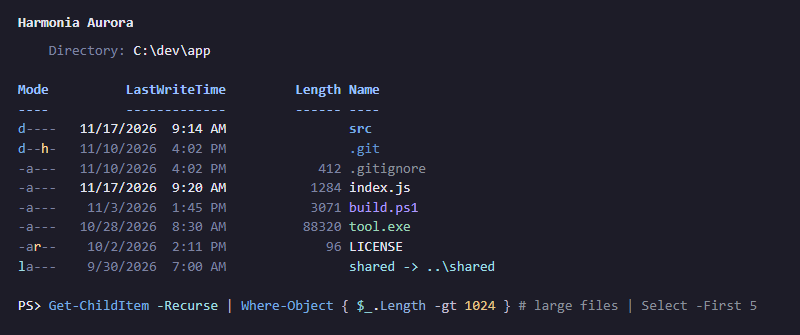
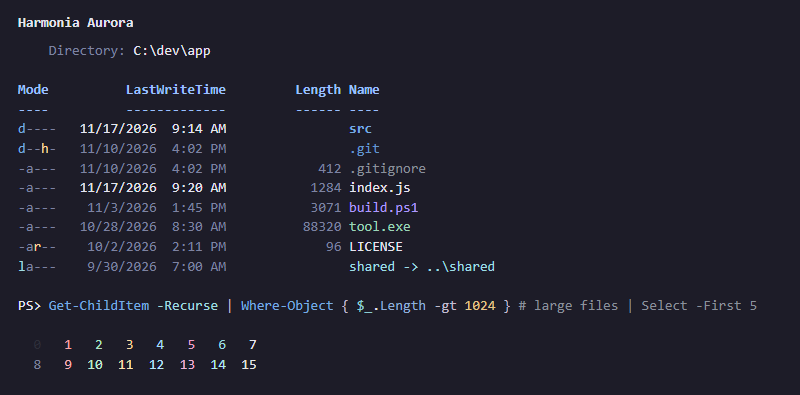
Show the 16 ANSI colors in the preview and screenshots
The README's palette check prints colors 0-15 and asks to compare them with
the variant's screenshot, but the screenshots only showed PowerShell output.
The preview now ends with the same two rows, colored from terminalPalette(),
and the screenshot window is taller to fit them.

diff --git a/docs/preview.html b/docs/preview.html
@@ -23,7 +23,10 @@ body.single section{margin:0;border-radius:0;min-height:100vh;box-sizing:border-
 <span style="color:#7E83A1">-</span><span style="color:#7E83A1">a</span><span style="color:#F9D79F">r</span><span style="color:#7E83A1">-</span><span style="color:#7E83A1">-</span><span style="color:#7E83A1"> </span><span style="color:#7E83A1"> </span> <span style="color:#7E83A1"> 10/2/2026  2:11 PM</span> <span style="color:#7E83A1">            96</span> <span style="color:#E6E6F0">LICENSE</span>
 <span style="color:#9FDDE3">l</span><span style="color:#7E83A1">a</span><span style="color:#7E83A1">-</span><span style="color:#7E83A1">-</span><span style="color:#7E83A1">-</span><span style="color:#7E83A1"> </span><span style="color:#7E83A1"> </span> <span style="color:#7E83A1"> 9/30/2026  7:00 AM</span> <span style="color:#7E83A1">              </span> <span style="color:#9FDDE3">shared -&gt; ..\shared</span>
 
-<span style="color:#E6E6F0">PS&gt; </span><span style="color:#77ACE2">Get-ChildItem</span> <span style="color:#A0DCE0">-Recurse</span> <span style="color:#C0BDD0">|</span> <span style="color:#77ACE2">Where-Object</span> <span style="color:#C0BDD0">{</span> <span style="color:#8CCCD2">$_</span><span style="color:#E6E6F0">.</span><span style="color:#8FAED8">Length</span> <span style="color:#C0BDD0">-gt</span> <span style="color:#E6C58A">1024</span> <span style="color:#C0BDD0">}</span> <span style="color:#8A909B"># large files</span><span style="color:#8A909B"> | Select -First 5</span></pre>
+<span style="color:#E6E6F0">PS&gt; </span><span style="color:#77ACE2">Get-ChildItem</span> <span style="color:#A0DCE0">-Recurse</span> <span style="color:#C0BDD0">|</span> <span style="color:#77ACE2">Where-Object</span> <span style="color:#C0BDD0">{</span> <span style="color:#8CCCD2">$_</span><span style="color:#E6E6F0">.</span><span style="color:#8FAED8">Length</span> <span style="color:#C0BDD0">-gt</span> <span style="color:#E6C58A">1024</span> <span style="color:#C0BDD0">}</span> <span style="color:#8A909B"># large files</span><span style="color:#8A909B"> | Select -First 5</span>
+
+<span style="color:#2E2F3A">  0</span> <span style="color:#F7A3A8">  1</span> <span style="color:#B0E3C5">  2</span> <span style="color:#F9D79F">  3</span> <span style="color:#A5D8F7">  4</span> <span style="color:#E8A2C8">  5</span> <span style="color:#9FDDE3">  6</span> <span style="color:#E8E8F0">  7</span>
+<span style="color:#7F839E">  8</span> <span style="color:#F5B2B7">  9</span> <span style="color:#C1EED3"> 10</span> <span style="color:#FDE4B2"> 11</span> <span style="color:#B8E3FB"> 12</span> <span style="color:#F0B4D6"> 13</span> <span style="color:#B4E9ED"> 14</span> <span style="color:#E7E6E6"> 15</span></pre>
 </section>
 <section id="harmonia-dark" style="background:#1A1B26;color:#D0D0E0">
 <h2>Harmonia Dark</h2>
@@ -40,7 +43,10 @@ body.single section{margin:0;border-radius:0;min-height:100vh;box-sizing:border-
 <span style="color:#7D81A2">-</span><span style="color:#7D81A2">a</span><span style="color:#E0A96D">r</span><span style="color:#7D81A2">-</span><span style="color:#7D81A2">-</span><span style="color:#7D81A2"> </span><span style="color:#7D81A2"> </span> <span style="color:#7D81A2"> 10/2/2026  2:11 PM</span> <span style="color:#7D81A2">            96</span> <span style="color:#D0D0E0">LICENSE</span>
 <span style="color:#88C6C3">l</span><span style="color:#7D81A2">a</span><span style="color:#7D81A2">-</span><span style="color:#7D81A2">-</span><span style="color:#7D81A2">-</span><span style="color:#7D81A2"> </span><span style="color:#7D81A2"> </span> <span style="color:#7D81A2"> 9/30/2026  7:00 AM</span> <span style="color:#7D81A2">              </span> <span style="color:#88C6C3">shared -&gt; ..\shared</span>
 
-<span style="color:#D0D0E0">PS&gt; </span><span style="color:#7FA9DC">Get-ChildItem</span> <span style="color:#94E2D5">-Recurse</span> <span style="color:#A8A8B8">|</span> <span style="color:#7FA9DC">Where-Object</span> <span style="color:#A8A8B8">{</span> <span style="color:#88C6C3">$_</span><span style="color:#D0D0E0">.</span><span style="color:#C8D0E0">Length</span> <span style="color:#A8A8B8">-gt</span> <span style="color:#D39D62">1024</span> <span style="color:#A8A8B8">}</span> <span style="color:#8A909B"># large files</span><span style="color:#8A909B"> | Select -First 5</span></pre>
+<span style="color:#D0D0E0">PS&gt; </span><span style="color:#7FA9DC">Get-ChildItem</span> <span style="color:#94E2D5">-Recurse</span> <span style="color:#A8A8B8">|</span> <span style="color:#7FA9DC">Where-Object</span> <span style="color:#A8A8B8">{</span> <span style="color:#88C6C3">$_</span><span style="color:#D0D0E0">.</span><span style="color:#C8D0E0">Length</span> <span style="color:#A8A8B8">-gt</span> <span style="color:#D39D62">1024</span> <span style="color:#A8A8B8">}</span> <span style="color:#8A909B"># large files</span><span style="color:#8A909B"> | Select -First 5</span>
+
+<span style="color:#2E2F3A">  0</span> <span style="color:#EC7279">  1</span> <span style="color:#A3D9A5">  2</span> <span style="color:#E0A96D">  3</span> <span style="color:#6EBDDB">  4</span> <span style="color:#C574DD">  5</span> <span style="color:#88C6C3">  6</span> <span style="color:#D0D0E0">  7</span>
+<span style="color:#7C829E">  8</span> <span style="color:#EC8A8F">  9</span> <span style="color:#B0DCAE"> 10</span> <span style="color:#F0C685"> 11</span> <span style="color:#8BD4E9"> 12</span> <span style="color:#D995ED"> 13</span> <span style="color:#A1DBDE"> 14</span> <span style="color:#D1D1D1"> 15</span></pre>
 </section>
 <section id="harmonia-dark-high-contrast" style="background:#0B0C12;color:#ECECF4">
 <h2>Harmonia Dark High Contrast</h2>
@@ -57,7 +63,10 @@ body.single section{margin:0;border-radius:0;min-height:100vh;box-sizing:border-
 <span style="color:#737897">-</span><span style="color:#737897">a</span><span style="color:#FFC979">r</span><span style="color:#737897">-</span><span style="color:#737897">-</span><span style="color:#737897"> </span><span style="color:#737897"> </span> <span style="color:#737897"> 10/2/2026  2:11 PM</span> <span style="color:#737897">            96</span> <span style="color:#ECECF4">LICENSE</span>
 <span style="color:#79D4D2">l</span><span style="color:#737897">a</span><span style="color:#737897">-</span><span style="color:#737897">-</span><span style="color:#737897">-</span><span style="color:#737897"> </span><span style="color:#737897"> </span> <span style="color:#737897"> 9/30/2026  7:00 AM</span> <span style="color:#737897">              </span> <span style="color:#79D4D2">shared -&gt; ..\shared</span>
 
-<span style="color:#ECECF4">PS&gt; </span><span style="color:#6FA3D9">Get-ChildItem</span> <span style="color:#96DDD5">-Recurse</span> <span style="color:#D0CEE0">|</span> <span style="color:#6FA3D9">Where-Object</span> <span style="color:#D0CEE0">{</span> <span style="color:#79D4D2">$_</span><span style="color:#ECECF4">.</span><span style="color:#E6EAF6">Length</span> <span style="color:#D0CEE0">-gt</span> <span style="color:#E6BA78">1024</span> <span style="color:#D0CEE0">}</span> <span style="color:#828895"># large files</span><span style="color:#828895"> | Select -First 5</span></pre>
+<span style="color:#ECECF4">PS&gt; </span><span style="color:#6FA3D9">Get-ChildItem</span> <span style="color:#96DDD5">-Recurse</span> <span style="color:#D0CEE0">|</span> <span style="color:#6FA3D9">Where-Object</span> <span style="color:#D0CEE0">{</span> <span style="color:#79D4D2">$_</span><span style="color:#ECECF4">.</span><span style="color:#E6EAF6">Length</span> <span style="color:#D0CEE0">-gt</span> <span style="color:#E6BA78">1024</span> <span style="color:#D0CEE0">}</span> <span style="color:#828895"># large files</span><span style="color:#828895"> | Select -First 5</span>
+
+<span style="color:#252735">  0</span> <span style="color:#FF7E8A">  1</span> <span style="color:#98E8B0">  2</span> <span style="color:#F0BE79">  3</span> <span style="color:#74C0FF">  4</span> <span style="color:#D08CFF">  5</span> <span style="color:#79D4D2">  6</span> <span style="color:#ECECF4">  7</span>
+<span style="color:#7C82A3">  8</span> <span style="color:#FFA1AA">  9</span> <span style="color:#C0F1C0"> 10</span> <span style="color:#FFD793"> 11</span> <span style="color:#A8D8FF"> 12</span> <span style="color:#E7B7FF"> 13</span> <span style="color:#B6F2F5"> 14</span> <span style="color:#EDECEC"> 15</span></pre>
 </section>
 <section id="harmonia-daybreak" style="background:#ECEEF1;color:#2D2D2D">
 <h2>Harmonia Daybreak</h2>
@@ -74,7 +83,10 @@ body.single section{margin:0;border-radius:0;min-height:100vh;box-sizing:border-
 <span style="color:#686C76">-</span><span style="color:#686C76">a</span><span style="color:#744400">r</span><span style="color:#686C76">-</span><span style="color:#686C76">-</span><span style="color:#686C76"> </span><span style="color:#686C76"> </span> <span style="color:#686C76"> 10/2/2026  2:11 PM</span> <span style="color:#686C76">            96</span> <span style="color:#2D2D2D">LICENSE</span>
 <span style="color:#005289">l</span><span style="color:#686C76">a</span><span style="color:#686C76">-</span><span style="color:#686C76">-</span><span style="color:#686C76">-</span><span style="color:#686C76"> </span><span style="color:#686C76"> </span> <span style="color:#686C76"> 9/30/2026  7:00 AM</span> <span style="color:#686C76">              </span> <span style="color:#005289">shared -&gt; ..\shared</span>
 
-<span style="color:#2D2D2D">PS&gt; </span><span style="color:#1A4E95">Get-ChildItem</span> <span style="color:#135762">-Recurse</span> <span style="color:#4C4F56">|</span> <span style="color:#1A4E95">Where-Object</span> <span style="color:#4C4F56">{</span> <span style="color:#085958">$_</span><span style="color:#2D2D2D">.</span><span style="color:#3B3F48">Length</span> <span style="color:#4C4F56">-gt</span> <span style="color:#6F4707">1024</span> <span style="color:#4C4F56">}</span> <span style="color:#666B74"># large files</span><span style="color:#666B74"> | Select -First 5</span></pre>
+<span style="color:#2D2D2D">PS&gt; </span><span style="color:#1A4E95">Get-ChildItem</span> <span style="color:#135762">-Recurse</span> <span style="color:#4C4F56">|</span> <span style="color:#1A4E95">Where-Object</span> <span style="color:#4C4F56">{</span> <span style="color:#085958">$_</span><span style="color:#2D2D2D">.</span><span style="color:#3B3F48">Length</span> <span style="color:#4C4F56">-gt</span> <span style="color:#6F4707">1024</span> <span style="color:#4C4F56">}</span> <span style="color:#666B74"># large files</span><span style="color:#666B74"> | Select -First 5</span>
+
+<span style="color:#9FA6B2">  0</span> <span style="color:#C8323B">  1</span> <span style="color:#3C7944">  2</span> <span style="color:#8E642C">  3</span> <span style="color:#386CB5">  4</span> <span style="color:#9B43C6">  5</span> <span style="color:#2A70A9">  6</span> <span style="color:#3A3A3A">  7</span>
+<span style="color:#666D75">  8</span> <span style="color:#A52930">  9</span> <span style="color:#2A6439"> 10</span> <span style="color:#785030"> 11</span> <span style="color:#2F5B8A"> 12</span> <span style="color:#8133A9"> 13</span> <span style="color:#355991"> 14</span> <span style="color:#2D2D2D"> 15</span></pre>
 </section>
 <section id="harmonia-light" style="background:#ECEEF1;color:#2D2D2D">
 <h2>Harmonia Light</h2>
@@ -91,7 +103,10 @@ body.single section{margin:0;border-radius:0;min-height:100vh;box-sizing:border-
 <span style="color:#686C76">-</span><span style="color:#686C76">a</span><span style="color:#744400">r</span><span style="color:#686C76">-</span><span style="color:#686C76">-</span><span style="color:#686C76"> </span><span style="color:#686C76"> </span> <span style="color:#686C76"> 10/2/2026  2:11 PM</span> <span style="color:#686C76">            96</span> <span style="color:#2D2D2D">LICENSE</span>
 <span style="color:#085958">l</span><span style="color:#686C76">a</span><span style="color:#686C76">-</span><span style="color:#686C76">-</span><span style="color:#686C76">-</span><span style="color:#686C76"> </span><span style="color:#686C76"> </span> <span style="color:#686C76"> 9/30/2026  7:00 AM</span> <span style="color:#686C76">              </span> <span style="color:#085958">shared -&gt; ..\shared</span>
 
-<span style="color:#2D2D2D">PS&gt; </span><span style="color:#2B4D92">Get-ChildItem</span> <span style="color:#135762">-Recurse</span> <span style="color:#4C4F56">|</span> <span style="color:#2B4D92">Where-Object</span> <span style="color:#4C4F56">{</span> <span style="color:#085958">$_</span><span style="color:#2D2D2D">.</span><span style="color:#3B3F48">Length</span> <span style="color:#4C4F56">-gt</span> <span style="color:#6F4707">1024</span> <span style="color:#4C4F56">}</span> <span style="color:#666B74"># large files</span><span style="color:#666B74"> | Select -First 5</span></pre>
+<span style="color:#2D2D2D">PS&gt; </span><span style="color:#2B4D92">Get-ChildItem</span> <span style="color:#135762">-Recurse</span> <span style="color:#4C4F56">|</span> <span style="color:#2B4D92">Where-Object</span> <span style="color:#4C4F56">{</span> <span style="color:#085958">$_</span><span style="color:#2D2D2D">.</span><span style="color:#3B3F48">Length</span> <span style="color:#4C4F56">-gt</span> <span style="color:#6F4707">1024</span> <span style="color:#4C4F56">}</span> <span style="color:#666B74"># large files</span><span style="color:#666B74"> | Select -First 5</span>
+
+<span style="color:#9FA6B2">  0</span> <span style="color:#C8323B">  1</span> <span style="color:#3C7944">  2</span> <span style="color:#8E642C">  3</span> <span style="color:#2A70A9">  4</span> <span style="color:#9B43C6">  5</span> <span style="color:#307675">  6</span> <span style="color:#2D2D2D">  7</span>
+<span style="color:#666D75">  8</span> <span style="color:#A52930">  9</span> <span style="color:#2A6439"> 10</span> <span style="color:#785030"> 11</span> <span style="color:#355991"> 12</span> <span style="color:#8133A9"> 13</span> <span style="color:#2C6069"> 14</span> <span style="color:#3A3A3A"> 15</span></pre>
 </section>
 <section id="harmonia-moonlit" style="background:#1A1B26;color:#D0D0E0">
 <h2>Harmonia Moonlit</h2>
@@ -108,7 +123,10 @@ body.single section{margin:0;border-radius:0;min-height:100vh;box-sizing:border-
 <span style="color:#7D81A2">-</span><span style="color:#7D81A2">a</span><span style="color:#F9D79F">r</span><span style="color:#7D81A2">-</span><span style="color:#7D81A2">-</span><span style="color:#7D81A2"> </span><span style="color:#7D81A2"> </span> <span style="color:#7D81A2"> 10/2/2026  2:11 PM</span> <span style="color:#7D81A2">            96</span> <span style="color:#D0D0E0">LICENSE</span>
 <span style="color:#6EBBDD">l</span><span style="color:#7D81A2">a</span><span style="color:#7D81A2">-</span><span style="color:#7D81A2">-</span><span style="color:#7D81A2">-</span><span style="color:#7D81A2"> </span><span style="color:#7D81A2"> </span> <span style="color:#7D81A2"> 9/30/2026  7:00 AM</span> <span style="color:#7D81A2">              </span> <span style="color:#6EBBDD">shared -&gt; ..\shared</span>
 
-<span style="color:#D0D0E0">PS&gt; </span><span style="color:#75AAE3">Get-ChildItem</span> <span style="color:#94E2D5">-Recurse</span> <span style="color:#A8A8B8">|</span> <span style="color:#75AAE3">Where-Object</span> <span style="color:#A8A8B8">{</span> <span style="color:#B0B8D0">$_</span><span style="color:#D0D0E0">.</span><span style="color:#C8D0E0">Length</span> <span style="color:#A8A8B8">-gt</span> <span style="color:#E0A96D">1024</span> <span style="color:#A8A8B8">}</span> <span style="color:#8A909B"># large files</span><span style="color:#8A909B"> | Select -First 5</span></pre>
+<span style="color:#D0D0E0">PS&gt; </span><span style="color:#75AAE3">Get-ChildItem</span> <span style="color:#94E2D5">-Recurse</span> <span style="color:#A8A8B8">|</span> <span style="color:#75AAE3">Where-Object</span> <span style="color:#A8A8B8">{</span> <span style="color:#B0B8D0">$_</span><span style="color:#D0D0E0">.</span><span style="color:#C8D0E0">Length</span> <span style="color:#A8A8B8">-gt</span> <span style="color:#E0A96D">1024</span> <span style="color:#A8A8B8">}</span> <span style="color:#8A909B"># large files</span><span style="color:#8A909B"> | Select -First 5</span>
+
+<span style="color:#2E2F3A">  0</span> <span style="color:#EC7279">  1</span> <span style="color:#A3D9A5">  2</span> <span style="color:#E0A96D">  3</span> <span style="color:#5B8FC7">  4</span> <span style="color:#C574DD">  5</span> <span style="color:#6EBBDD">  6</span> <span style="color:#D0D0E0">  7</span>
+<span style="color:#7C829E">  8</span> <span style="color:#EC8A8F">  9</span> <span style="color:#B0DCAE"> 10</span> <span style="color:#F0C685"> 11</span> <span style="color:#6F8FCC"> 12</span> <span style="color:#D995ED"> 13</span> <span style="color:#8BD4E9"> 14</span> <span style="color:#D1D1D1"> 15</span></pre>
 </section>
 <section id="harmonia-noir" style="background:#14121A;color:#D0D0E0">
 <h2>Harmonia Noir</h2>
@@ -125,7 +143,10 @@ body.single section{margin:0;border-radius:0;min-height:100vh;box-sizing:border-
 <span style="color:#777B9B">-</span><span style="color:#777B9B">a</span><span style="color:#E0A96D">r</span><span style="color:#777B9B">-</span><span style="color:#777B9B">-</span><span style="color:#777B9B"> </span><span style="color:#777B9B"> </span> <span style="color:#777B9B"> 10/2/2026  2:11 PM</span> <span style="color:#777B9B">            96</span> <span style="color:#D0D0E0">LICENSE</span>
 <span style="color:#88C6C3">l</span><span style="color:#777B9B">a</span><span style="color:#777B9B">-</span><span style="color:#777B9B">-</span><span style="color:#777B9B">-</span><span style="color:#777B9B"> </span><span style="color:#777B9B"> </span> <span style="color:#777B9B"> 9/30/2026  7:00 AM</span> <span style="color:#777B9B">              </span> <span style="color:#88C6C3">shared -&gt; ..\shared</span>
 
-<span style="color:#D0D0E0">PS&gt; </span><span style="color:#A0AEE8">Get-ChildItem</span> <span style="color:#94E2D5">-Recurse</span> <span style="color:#BFBDCC">|</span> <span style="color:#A0AEE8">Where-Object</span> <span style="color:#BFBDCC">{</span> <span style="color:#88C6C3">$_</span><span style="color:#D0D0E0">.</span><span style="color:#C8CEDA">Length</span> <span style="color:#BFBDCC">-gt</span> <span style="color:#D39D62">1024</span> <span style="color:#BFBDCC">}</span> <span style="color:#868C97"># large files</span><span style="color:#868C97"> | Select -First 5</span></pre>
+<span style="color:#D0D0E0">PS&gt; </span><span style="color:#A0AEE8">Get-ChildItem</span> <span style="color:#94E2D5">-Recurse</span> <span style="color:#BFBDCC">|</span> <span style="color:#A0AEE8">Where-Object</span> <span style="color:#BFBDCC">{</span> <span style="color:#88C6C3">$_</span><span style="color:#D0D0E0">.</span><span style="color:#C8CEDA">Length</span> <span style="color:#BFBDCC">-gt</span> <span style="color:#D39D62">1024</span> <span style="color:#BFBDCC">}</span> <span style="color:#868C97"># large files</span><span style="color:#868C97"> | Select -First 5</span>
+
+<span style="color:#2A2B36">  0</span> <span style="color:#EC7279">  1</span> <span style="color:#9FD6D1">  2</span> <span style="color:#D4AA76">  3</span> <span style="color:#7EA8E6">  4</span> <span style="color:#BBA0F5">  5</span> <span style="color:#88C6C3">  6</span> <span style="color:#D0D0E0">  7</span>
+<span style="color:#767C98">  8</span> <span style="color:#EC8A8F">  9</span> <span style="color:#A4DBD7"> 10</span> <span style="color:#E3BB86"> 11</span> <span style="color:#9CC7FF"> 12</span> <span style="color:#CAA7F2"> 13</span> <span style="color:#A1DBDE"> 14</span> <span style="color:#D1D1D1"> 15</span></pre>
 </section>
 <section id="harmonia-oled-true-black" style="background:#000000;color:#E2E2E8">
 <h2>Harmonia OLED True Black</h2>
@@ -142,7 +163,10 @@ body.single section{margin:0;border-radius:0;min-height:100vh;box-sizing:border-
 <span style="color:#6E738F">-</span><span style="color:#6E738F">a</span><span style="color:#E1B37A">r</span><span style="color:#6E738F">-</span><span style="color:#6E738F">-</span><span style="color:#6E738F"> </span><span style="color:#6E738F"> </span> <span style="color:#6E738F"> 10/2/2026  2:11 PM</span> <span style="color:#6E738F">            96</span> <span style="color:#E2E2E8">LICENSE</span>
 <span style="color:#96D7D4">l</span><span style="color:#6E738F">a</span><span style="color:#6E738F">-</span><span style="color:#6E738F">-</span><span style="color:#6E738F">-</span><span style="color:#6E738F"> </span><span style="color:#6E738F"> </span> <span style="color:#6E738F"> 9/30/2026  7:00 AM</span> <span style="color:#6E738F">              </span> <span style="color:#96D7D4">shared -&gt; ..\shared</span>
 
-<span style="color:#E2E2E8">PS&gt; </span><span style="color:#5B9BD5">Get-ChildItem</span> <span style="color:#A7DEAE">-Recurse</span> <span style="color:#BBB9C8">|</span> <span style="color:#5B9BD5">Where-Object</span> <span style="color:#BBB9C8">{</span> <span style="color:#88C5C2">$_</span><span style="color:#E2E2E8">.</span><span style="color:#C8C8D2">Length</span> <span style="color:#BBB9C8">-gt</span> <span style="color:#E1B37A">1024</span> <span style="color:#BBB9C8">}</span> <span style="color:#7D828D"># large files</span><span style="color:#7D828D"> | Select -First 5</span></pre>
+<span style="color:#E2E2E8">PS&gt; </span><span style="color:#5B9BD5">Get-ChildItem</span> <span style="color:#A7DEAE">-Recurse</span> <span style="color:#BBB9C8">|</span> <span style="color:#5B9BD5">Where-Object</span> <span style="color:#BBB9C8">{</span> <span style="color:#88C5C2">$_</span><span style="color:#E2E2E8">.</span><span style="color:#C8C8D2">Length</span> <span style="color:#BBB9C8">-gt</span> <span style="color:#E1B37A">1024</span> <span style="color:#BBB9C8">}</span> <span style="color:#7D828D"># large files</span><span style="color:#7D828D"> | Select -First 5</span>
+
+<span style="color:#111218">  0</span> <span style="color:#E8848A">  1</span> <span style="color:#A7DEAE">  2</span> <span style="color:#E1B37A">  3</span> <span style="color:#7AA2F7">  4</span> <span style="color:#C5A6F2">  5</span> <span style="color:#96D7D4">  6</span> <span style="color:#D6D6DE">  7</span>
+<span style="color:#6E738F">  8</span> <span style="color:#F0A2A6">  9</span> <span style="color:#BEE9C3"> 10</span> <span style="color:#F0C894"> 11</span> <span style="color:#9CC0FF"> 12</span> <span style="color:#D7BDF8"> 13</span> <span style="color:#B3E4E1"> 14</span> <span style="color:#E3E2E2"> 15</span></pre>
 </section>
 <section id="harmonia-paper-white" style="background:#FFFFFF;color:#1A1A1A">
 <h2>Harmonia Paper White</h2>
@@ -159,7 +183,10 @@ body.single section{margin:0;border-radius:0;min-height:100vh;box-sizing:border-
 <span style="color:#717781">-</span><span style="color:#717781">a</span><span style="color:#834C00">r</span><span style="color:#717781">-</span><span style="color:#717781">-</span><span style="color:#717781"> </span><span style="color:#717781"> </span> <span style="color:#717781"> 10/2/2026  2:11 PM</span> <span style="color:#717781">            96</span> <span style="color:#1A1A1A">LICENSE</span>
 <span style="color:#0D6364">l</span><span style="color:#717781">a</span><span style="color:#717781">-</span><span style="color:#717781">-</span><span style="color:#717781">-</span><span style="color:#717781"> </span><span style="color:#717781"> </span> <span style="color:#717781"> 9/30/2026  7:00 AM</span> <span style="color:#717781">              </span> <span style="color:#0D6364">shared -&gt; ..\shared</span>
 
-<span style="color:#1A1A1A">PS&gt; </span><span style="color:#34579D">Get-ChildItem</span> <span style="color:#17616D">-Recurse</span> <span style="color:#565961">|</span> <span style="color:#34579D">Where-Object</span> <span style="color:#565961">{</span> <span style="color:#0D6364">$_</span><span style="color:#1A1A1A">.</span><span style="color:#3B3F48">Length</span> <span style="color:#565961">-gt</span> <span style="color:#7B500B">1024</span> <span style="color:#565961">}</span> <span style="color:#6F757F"># large files</span><span style="color:#6F757F"> | Select -First 5</span></pre>
+<span style="color:#1A1A1A">PS&gt; </span><span style="color:#34579D">Get-ChildItem</span> <span style="color:#17616D">-Recurse</span> <span style="color:#565961">|</span> <span style="color:#34579D">Where-Object</span> <span style="color:#565961">{</span> <span style="color:#0D6364">$_</span><span style="color:#1A1A1A">.</span><span style="color:#3B3F48">Length</span> <span style="color:#565961">-gt</span> <span style="color:#7B500B">1024</span> <span style="color:#565961">}</span> <span style="color:#6F757F"># large files</span><span style="color:#6F757F"> | Select -First 5</span>
+
+<span style="color:#9FA6B2">  0</span> <span style="color:#D0444C">  1</span> <span style="color:#42844B">  2</span> <span style="color:#9A6D30">  3</span> <span style="color:#2E7BBA">  4</span> <span style="color:#A353CB">  5</span> <span style="color:#358181">  6</span> <span style="color:#2D2D2D">  7</span>
+<span style="color:#70777F">  8</span> <span style="color:#B82E35">  9</span> <span style="color:#2F6F40"> 10</span> <span style="color:#865936"> 11</span> <span style="color:#3B63A0"> 12</span> <span style="color:#9039BC"> 13</span> <span style="color:#316B75"> 14</span> <span style="color:#1A1A1A"> 15</span></pre>
 </section>
 <script>
 // ?variant=<slug> shows one variant edge to edge, used for the README screenshots

diff --git a/scripts/preview.js b/scripts/preview.js
@@ -3,6 +3,7 @@ import { fileURLToPath } from 'url'
 import { dirname, join } from 'path'
 import { loadThemes, color, toHex } from '../src/theme.js'
 import { formatPalette } from '../src/targets/powershell-format.js'
+import { terminalPalette } from '../src/palette.js'
 
 const root = join(dirname(fileURLToPath(import.meta.url)), '..')
 const dist = join(root, 'dist', 'powershell')
@@ -54,12 +55,18 @@ function section(theme) {
     span(c('Member'), 'Length'), ' ', span(c('Operator'), '-gt'), ' ', span(c('Number'), '1024'), ' ', span(c('Operator'), '}'), ' ',
     span(c('Comment'), '# large files'), span(c('InlinePrediction'), ' | Select -First 5')
   ].join('')
+  // Same layout as the README's printf check, so the two can be compared side by side
+  const ansi = terminalPalette(theme).ansi.map(toHex)
+  const ansiRow = (from) => ansi.slice(from, from + 8).map((hex, i) => span(hex, String(from + i).padStart(3))).join(' ')
 
   return `<section id="${theme.slug}" style="background:${bg};color:${fg}">
 <h2>${esc(theme.name)}</h2>
 <pre>${lines.join('\n')}
 
-${span(fg, 'PS> ')}${typed}</pre>
+${span(fg, 'PS> ')}${typed}
+
+${ansiRow(0)}
+${ansiRow(8)}</pre>
 </section>`
 }
 
